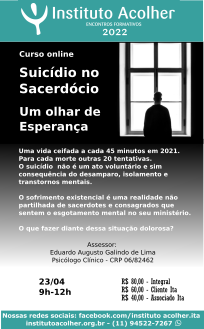
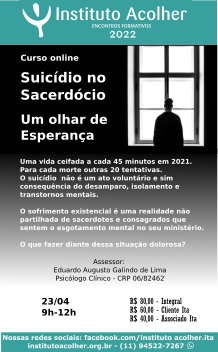
Atualização automática

diff --git a/docs/atividades_curso.html b/docs/atividades_curso.html
@@ -50,112 +50,233 @@
     <header></header>
     <main class="container">
       <h1>Cursos</h1>
-      <h2>Abril</h2>
-      <h3>Suicídio no Sacerdócio: Um olhar de Esperança</h3><img src="img/curso-2022-04-23.jpg">
-      <p>Suicídio no Sacerdócio: Um olhar de Esperança&lt;br&gt;Assessor: Eduardo Augusto Galindo de Lima &lt;br&gt;(psicólogo clínico) &lt;br&gt;Nesse curso iremos trabalhar o fenômeno do suicídio que no Brasil que a cada 45 minutos ceifou a vida de uma pessoa no ano passado. E a cada morte ocorreram outras 20 tentativas. O suicídio não é um ato voluntário e livre. É uma consequência do desamparo, do isolamento e dos transtornos mentais. O sofrimento existencial é uma realidade não partilhada de sacerdotes e consagrados que sentem o esgotamento mental no seu ministério. Diante dessa situação dolorosa devemos auxiliar na promoção das ações para valorização da vida e do bem estar na área humano-afetiva.<br><i class="grey-text">16/04 (Sábado) das 09h00 às 12h00</i>
-        <p class="modulo-assessor"><i class="grey-text fa fa-graduation-cap"></i><a href="eduardo-augusto-galindo-de-lima.html" title="Membro do ITA">Eduardo Augusto Galindo de Lima</a><br><small class="grey-text membro-crp"> CRP: 06/82462</small>
-        </p>
-      </p><a class="dropdown-trigger btn" href="#" data-target="dropdown2022-04-16">Incluir na minha agenda</a>
-      <ul class="dropdown-content" id="dropdown2022-04-16">
-        <li><a href="https://www.google.com/calendar/render?action=TEMPLATE&amp;text=Suicídio no Sacerdócio: Um olhar de Esperança&amp;details=Suicídio no Sacerdócio: Um olhar de Esperança&lt;br&gt;Assessor: Eduardo Augusto Galindo de Lima &lt;br&gt;(psicólogo clínico) &lt;br&gt;Nesse curso iremos trabalhar o fenômeno do suicídio que no Brasil que a cada 45 minutos ceifou a vida de uma pessoa no ano passado. E a cada morte ocorreram outras 20 tentativas. O suicídio não é um ato voluntário e livre. É uma consequência do desamparo, do isolamento e dos transtornos mentais. O sofrimento existencial é uma realidade não partilhada de sacerdotes e consagrados que sentem o esgotamento mental no seu ministério. Diante dessa situação dolorosa devemos auxiliar na promoção das ações para valorização da vida e do bem estar na área humano-afetiva.&amp;location=Sede do ITA&amp;dates=20220416T090000/20220416T120000" target="_blank">Google</a></li>
-      </ul>
-      <h2>Março</h2>
-      <h3>Relacionamentos na Vida Consagrada e Sacerdotal</h3><img src="img/curso-2022-03-19a.jpg">
-      <p>Relacionamentos na Vida Consagrada e Sacerdotal&lt;br&gt;Assessor: pe. Adalberto Wojciech Mittelstaedt, svd &lt;br&gt;(psicólogo e psicopedagogo, mestre em Teologia, doutor em Ciências da Religião) &lt;br&gt;Maioria dos psicólogos afirma que o bem estar de uma pessoa depende intrinsecamente do sentimento de amor que ela experienciou na sua vida desde a infância. Relacionamentos nos quais nos sentimos amados são portanto necessários para a nossa felicidade e, ainda mais, para podermos expressar nosso amor diante dos outros. &lt;br&gt;Para uma pessoa consagrada ou um sacerdote essa experiência é indispensável para sua realização, ou seja para felicidade na sua missão. E contrário...&lt;br&gt;O sacerdote, que alguns dias atrás chocou Brasil por se suicidar dentro da igreja, apontou na sua carta de despedida que se sentiu excluído, desprezado e desprotegido por outros sacerdotes. Não sabemos muito sobre a sua enfermidade, mas as queixas apontam reclamações os relacionamentos com os que deveriam ser mais próximos. <br><i class="grey-text">19/03 (Sábado) das 09h00 às 12h00</i>
-        <p class="modulo-assessor"><i class="grey-text fa fa-graduation-cap"></i><a href="wojciech-mittelstaedt-adalberto.html" title="Membro do ITA">Wojciech Mittelstaedt (Adalberto)</a><br><small class="grey-text membro-crp"> CRP: 06/99753</small>
-        </p>
-      </p><a class="dropdown-trigger btn" href="#" data-target="dropdown2022-03-19">Incluir na minha agenda</a>
-      <ul class="dropdown-content" id="dropdown2022-03-19">
-        <li><a href="https://www.google.com/calendar/render?action=TEMPLATE&amp;text=Relacionamentos na Vida Consagrada e Sacerdotal&amp;details=Relacionamentos na Vida Consagrada e Sacerdotal&lt;br&gt;Assessor: pe. Adalberto Wojciech Mittelstaedt, svd &lt;br&gt;(psicólogo e psicopedagogo, mestre em Teologia, doutor em Ciências da Religião) &lt;br&gt;Maioria dos psicólogos afirma que o bem estar de uma pessoa depende intrinsecamente do sentimento de amor que ela experienciou na sua vida desde a infância. Relacionamentos nos quais nos sentimos amados são portanto necessários para a nossa felicidade e, ainda mais, para podermos expressar nosso amor diante dos outros. &lt;br&gt;Para uma pessoa consagrada ou um sacerdote essa experiência é indispensável para sua realização, ou seja para felicidade na sua missão. E contrário...&lt;br&gt;O sacerdote, que alguns dias atrás chocou Brasil por se suicidar dentro da igreja, apontou na sua carta de despedida que se sentiu excluído, desprezado e desprotegido por outros sacerdotes. Não sabemos muito sobre a sua enfermidade, mas as queixas apontam reclamações os relacionamentos com os que deveriam ser mais próximos. &amp;location=Sede do ITA&amp;dates=20220319T090000/20220319T120000" target="_blank">Google</a></li>
-      </ul>
-      <h2>Maio</h2>
-      <h3>Ansiedade</h3><img>
-      <p>Insira a descrição do curso aqui<br><i class="grey-text">14/05 (Sábado) das 09h00 às 12h00</i>
-        <p class="modulo-assessor"><i class="grey-text fa fa-graduation-cap"></i><a href="enio-brito-pinto.html" title="Membro do ITA">Ênio Brito Pinto</a><br><small class="grey-text membro-crp"> CRP: 06/14675-7</small>
-        </p>
-      </p><a class="dropdown-trigger btn" href="#" data-target="dropdown2022-05-14">Incluir na minha agenda</a>
-      <ul class="dropdown-content" id="dropdown2022-05-14">
-        <li><a href="https://www.google.com/calendar/render?action=TEMPLATE&amp;text=Ansiedade&amp;details=Insira a descrição do curso aqui&amp;location=Sede do ITA&amp;dates=20220514T090000/20220514T120000" target="_blank">Google</a></li>
-      </ul>
-      <h2>Junho</h2>
-      <h3>Afetividade/sexualidade</h3><img>
-      <p>Insira a descrição do curso aqui<br><i class="grey-text">10/06 (Sexta-feira) das 09h00 às 12h00</i>
-        <p class="modulo-assessor"><i class="grey-text fa fa-graduation-cap"></i><a href="wellington-heleno-da-silva.html" title="Membro do ITA">Wellington Heleno da Silva</a><br><small class="grey-text membro-crp"> CRP: 06/10292</small>
-        </p>
-      </p><a class="dropdown-trigger btn" href="#" data-target="dropdown2022-06-10">Incluir na minha agenda</a>
-      <ul class="dropdown-content" id="dropdown2022-06-10">
-        <li><a href="https://www.google.com/calendar/render?action=TEMPLATE&amp;text=Afetividade/sexualidade&amp;details=Insira a descrição do curso aqui&amp;location=Sede do ITA&amp;dates=20220610T090000/20220610T120000" target="_blank">Google</a></li>
-      </ul>
-      <h2>Julho</h2>
-      <h3>Tipos Psicológicos</h3><img>
-      <p>Insira a descrição do curso aqui<br><i class="grey-text">16/07 (Sábado) das 09h00 às 12h00</i>
-        <p class="modulo-assessor"><i class="grey-text fa fa-graduation-cap"></i><a href="flavia-moreira-ribeiro.html" title="Membro do ITA">Flávia Moreira da Silva</a><br><small class="grey-text membro-crp"> CRP: 06/108.831</small>
-        </p>
-      </p><a class="dropdown-trigger btn" href="#" data-target="dropdown2022-07-16">Incluir na minha agenda</a>
-      <ul class="dropdown-content" id="dropdown2022-07-16">
-        <li><a href="https://www.google.com/calendar/render?action=TEMPLATE&amp;text=Tipos Psicológicos&amp;details=Insira a descrição do curso aqui&amp;location=Sede do ITA&amp;dates=20220716T090000/20220716T120000" target="_blank">Google</a></li>
-      </ul>
-      <h2>Agosto</h2>
-      <h3>Sentido da Vida</h3><img>
-      <p>Insira a descrição do curso aqui<br><i class="grey-text">20/08 (Sábado) das 09h00 às 12h00</i>
-        <p class="modulo-assessor"><i class="grey-text fa fa-graduation-cap"></i><a href="maria-de-fatima-rolim-rosa.html" title="Membro do ITA">Maria de Fátima Rolim Rosa</a><br><small class="grey-text membro-crp"> CRP: 06/34959-7</small>
-        </p>
-      </p><a class="dropdown-trigger btn" href="#" data-target="dropdown2022-08-20">Incluir na minha agenda</a>
-      <ul class="dropdown-content" id="dropdown2022-08-20">
-        <li><a href="https://www.google.com/calendar/render?action=TEMPLATE&amp;text=Sentido da Vida&amp;details=Insira a descrição do curso aqui&amp;location=Sede do ITA&amp;dates=20220820T090000/20220820T120000" target="_blank">Google</a></li>
-      </ul>
-      <h2>Setembro</h2>
-      <h3>VR e Feminino</h3><img>
-      <p>Insira a descrição do curso aqui<br><i class="grey-text">17/09 (Sábado) das 09h00 às 12h00</i>
-        <p class="modulo-assessor"><i class="grey-text fa fa-graduation-cap"></i><a href="maria-silva-mourao.html" title="Membro do ITA">Maria Silva Mourão</a><br><small class="grey-text membro-crp"> CRP: 06/16774</small>
-        </p>
-      </p><a class="dropdown-trigger btn" href="#" data-target="dropdown2022-09-17">Incluir na minha agenda</a>
-      <ul class="dropdown-content" id="dropdown2022-09-17">
-        <li><a href="https://www.google.com/calendar/render?action=TEMPLATE&amp;text=VR e Feminino&amp;details=Insira a descrição do curso aqui&amp;location=Sede do ITA&amp;dates=20220917T090000/20220917T120000" target="_blank">Google</a></li>
-      </ul>
-      <h2>Outubro</h2>
-      <h3>O corpo em que habito</h3><img>
-      <p>Insira a descrição do curso aqui<br><i class="grey-text">15/10 (Sábado) das 09h00 às 12h00</i>
-        <p class="modulo-assessor"><i class="grey-text fa fa-graduation-cap"></i><a href="lourdes-degrandis.html" title="Membro do ITA">Lourdes Degrandis</a><br><small class="grey-text membro-crp"> CRP: 06/35768-6</small>
-        </p>
-      </p><a class="dropdown-trigger btn" href="#" data-target="dropdown2022-10-15">Incluir na minha agenda</a>
-      <ul class="dropdown-content" id="dropdown2022-10-15">
-        <li><a href="https://www.google.com/calendar/render?action=TEMPLATE&amp;text=O corpo em que habito&amp;details=Insira a descrição do curso aqui&amp;location=Sede do ITA&amp;dates=20221015T090000/20221015T120000" target="_blank">Google</a></li>
-      </ul>
-      <h2>Novembro</h2>
-      <h3>Narcisismo</h3><img>
-      <p>Insira a descrição do curso aqui<br><i class="grey-text">19/11 (Sábado) das 09h00 às 12h00</i>
-        <p class="modulo-assessor"><i class="grey-text fa fa-graduation-cap"></i><a href="wojciech-mittelstaedt-adalberto.html" title="Membro do ITA">Wojciech Mittelstaedt (Adalberto)</a><br><small class="grey-text membro-crp"> CRP: 06/99753</small>
-        </p>
-      </p><a class="dropdown-trigger btn" href="#" data-target="dropdown2022-11-19">Incluir na minha agenda</a>
-      <ul class="dropdown-content" id="dropdown2022-11-19">
-        <li><a href="https://www.google.com/calendar/render?action=TEMPLATE&amp;text=Narcisismo&amp;details=Insira a descrição do curso aqui&amp;location=Sede do ITA&amp;dates=20221119T090000/20221119T120000" target="_blank">Google</a></li>
-      </ul>
-      <h3>O despertar da meia-idade</h3><img>
-      <p>Insira a descrição do curso aqui<br><i class="grey-text">26/11 (Sábado) das 09h00 às 12h00</i>
-        <p class="modulo-assessor"><i class="grey-text fa fa-graduation-cap"></i><a href="flavia-moreira-ribeiro.html" title="Membro do ITA">Flávia Moreira da Silva</a><br><small class="grey-text membro-crp"> CRP: 06/108.831</small>
-        </p>
-      </p><a class="dropdown-trigger btn" href="#" data-target="dropdown2022-11-26">Incluir na minha agenda</a>
-      <ul class="dropdown-content" id="dropdown2022-11-26">
-        <li><a href="https://www.google.com/calendar/render?action=TEMPLATE&amp;text=O despertar da meia-idade&amp;details=Insira a descrição do curso aqui&amp;location=Sede do ITA&amp;dates=20221126T090000/20221126T120000" target="_blank">Google</a></li>
-      </ul>
-      <h2>Dezembro</h2>
-      <h3>O despertar da meia-idade</h3><img>
-      <p>Insira a descrição do curso aqui<br><i class="grey-text">03/12 (Sábado) das 09h00 às 12h00</i>
-        <p class="modulo-assessor"><i class="grey-text fa fa-graduation-cap"></i><a href="flavia-moreira-ribeiro.html" title="Membro do ITA">Flávia Moreira da Silva</a><br><small class="grey-text membro-crp"> CRP: 06/108.831</small>
-        </p>
-      </p><a class="dropdown-trigger btn" href="#" data-target="dropdown2022-12-03">Incluir na minha agenda</a>
-      <ul class="dropdown-content" id="dropdown2022-12-03">
-        <li><a href="https://www.google.com/calendar/render?action=TEMPLATE&amp;text=O despertar da meia-idade&amp;details=Insira a descrição do curso aqui&amp;location=Sede do ITA&amp;dates=20221203T090000/20221203T120000" target="_blank">Google</a></li>
-      </ul>
-      <h3>Burnout</h3><img>
-      <p>Insira a descrição do curso aqui<br><i class="grey-text">10/12 (Sábado) das 09h00 às 12h00</i>
-        <p class="modulo-assessor"><i class="grey-text fa fa-graduation-cap"></i><a href="wellington-heleno-da-silva.html" title="Membro do ITA">Wellington Heleno da Silva</a><br><small class="grey-text membro-crp"> CRP: 06/10292</small>
-        </p>
-      </p><a class="dropdown-trigger btn" href="#" data-target="dropdown2022-12-10">Incluir na minha agenda</a>
-      <ul class="dropdown-content" id="dropdown2022-12-10">
-        <li><a href="https://www.google.com/calendar/render?action=TEMPLATE&amp;text=Burnout&amp;details=Insira a descrição do curso aqui&amp;location=Sede do ITA&amp;dates=20221210T090000/20221210T120000" target="_blank">Google</a></li>
-      </ul>
+      <h2 class="mt6">Abril</h2>
+      <p class="tc"><img src="img/curso-2022-04-23.png"></p>
+      <h3 class="mt4">Suicídio no Sacerdócio: Um olhar de Esperança</h3>
+      <p class="modulo-assessor"><i class="grey-text fa fa-graduation-cap"></i><a href="eduardo-augusto-galindo-de-lima.html" title="Membro do ITA">Eduardo Augusto Galindo de Lima</a><br><small class="grey-text membro-crp"> CRP: 06/82462</small>
+      </p>
+      <p class="fw3 teal-text">Descrição do curso</p>
+      <p class="flow-text">Suicídio no Sacerdócio: Um olhar de Esperança. Assessor: Eduardo Augusto Galindo de Lima (psicólogo clínico) Nesse curso iremos trabalhar o fenômeno do suicídio que no Brasil que a cada 45 minutos ceifou a vida de uma pessoa no ano passado. E a cada morte ocorreram outras 20 tentativas. O suicídio não é um ato voluntário e livre. É uma consequência do desamparo, do isolamento e dos transtornos mentais. O sofrimento existencial é uma realidade não partilhada de sacerdotes e consagrados que sentem o esgotamento mental no seu ministério. Diante dessa situação dolorosa devemos auxiliar na promoção das ações para valorização da vida e do bem estar na área humano-afetiva.</p>
+      <p class="fw3 teal-text">Data e horário</p>
+      <p><i class="grey-text">23/04 (Sábado) das 09h00 às 12h00</i></p>
+      <p class="fw3 teal-text">Local</p>
+      <p><strong>Sede do Instituto Acolher - ITA</strong></p>
+      <p class="fw3 teal-text">Inscrição</p>
+      <div class="row">
+        <div class="col s12 m6"><a class="btn teal darken-2 w100" href="https://forms.gle/sDkib3KSRq7NiFLk6" target="_blank">Realizar inscrição</a></div>
+        <div class="col s12 m6"><a class="dropdown-trigger btn w100" href="#" data-target="dropdown2022-04-23">Incluir na minha agenda</a>
+          <ul class="dropdown-content" id="dropdown2022-04-23">
+            <li><a href="https://www.google.com/calendar/render?action=TEMPLATE&amp;text=Suicídio no Sacerdócio: Um olhar de Esperança&amp;details=Suicídio no Sacerdócio: Um olhar de Esperança. Assessor: Eduardo Augusto Galindo de Lima (psicólogo clínico) Nesse curso iremos trabalhar o fenômeno do suicídio que no Brasil que a cada 45 minutos ceifou a vida de uma pessoa no ano passado. E a cada morte ocorreram outras 20 tentativas. O suicídio não é um ato voluntário e livre. É uma consequência do desamparo, do isolamento e dos transtornos mentais. O sofrimento existencial é uma realidade não partilhada de sacerdotes e consagrados que sentem o esgotamento mental no seu ministério. Diante dessa situação dolorosa devemos auxiliar na promoção das ações para valorização da vida e do bem estar na área humano-afetiva.&amp;location=Sede do ITA&amp;dates=20220423T090000/20220423T120000" target="_blank">Google</a></li>
+          </ul>
+        </div>
+      </div>
+      <h2 class="mt6">Março</h2>
+      <p class="tc"><img src="img/curso-2022-03-19a.jpg"></p>
+      <h3 class="mt4">Relacionamentos na Vida Consagrada e Sacerdotal</h3>
+      <p class="modulo-assessor"><i class="grey-text fa fa-graduation-cap"></i><a href="wojciech-mittelstaedt-adalberto.html" title="Membro do ITA">Wojciech Mittelstaedt (Adalberto)</a><br><small class="grey-text membro-crp"> CRP: 06/99753</small>
+      </p>
+      <p class="fw3 teal-text">Descrição do curso</p>
+      <p class="flow-text">Relacionamentos na Vida Consagrada e Sacerdotal<br>Assessor: pe. Adalberto Wojciech Mittelstaedt, svd <br>(psicólogo e psicopedagogo, mestre em Teologia, doutor em Ciências da Religião) <br>Maioria dos psicólogos afirma que o bem estar de uma pessoa depende intrinsecamente do sentimento de amor que ela experienciou na sua vida desde a infância. Relacionamentos nos quais nos sentimos amados são portanto necessários para a nossa felicidade e, ainda mais, para podermos expressar nosso amor diante dos outros. <br>Para uma pessoa consagrada ou um sacerdote essa experiência é indispensável para sua realização, ou seja para felicidade na sua missão. E contrário...<br>O sacerdote, que alguns dias atrás chocou Brasil por se suicidar dentro da igreja, apontou na sua carta de despedida que se sentiu excluído, desprezado e desprotegido por outros sacerdotes. Não sabemos muito sobre a sua enfermidade, mas as queixas apontam reclamações os relacionamentos com os que deveriam ser mais próximos. </p>
+      <p class="fw3 teal-text">Data e horário</p>
+      <p><i class="grey-text">19/03 (Sábado) das 09h00 às 12h00</i></p>
+      <p class="fw3 teal-text">Local</p>
+      <p><strong>Sede do Instituto Acolher - ITA</strong></p>
+      <p class="fw3 teal-text">Inscrição</p>
+      <div class="row">
+        <div class="col s12 m6"><a class="dropdown-trigger btn w100" href="#" data-target="dropdown2022-03-19">Incluir na minha agenda</a>
+          <ul class="dropdown-content" id="dropdown2022-03-19">
+            <li><a href="https://www.google.com/calendar/render?action=TEMPLATE&amp;text=Relacionamentos na Vida Consagrada e Sacerdotal&amp;details=Relacionamentos na Vida Consagrada e Sacerdotal&lt;br&gt;Assessor: pe. Adalberto Wojciech Mittelstaedt, svd &lt;br&gt;(psicólogo e psicopedagogo, mestre em Teologia, doutor em Ciências da Religião) &lt;br&gt;Maioria dos psicólogos afirma que o bem estar de uma pessoa depende intrinsecamente do sentimento de amor que ela experienciou na sua vida desde a infância. Relacionamentos nos quais nos sentimos amados são portanto necessários para a nossa felicidade e, ainda mais, para podermos expressar nosso amor diante dos outros. &lt;br&gt;Para uma pessoa consagrada ou um sacerdote essa experiência é indispensável para sua realização, ou seja para felicidade na sua missão. E contrário...&lt;br&gt;O sacerdote, que alguns dias atrás chocou Brasil por se suicidar dentro da igreja, apontou na sua carta de despedida que se sentiu excluído, desprezado e desprotegido por outros sacerdotes. Não sabemos muito sobre a sua enfermidade, mas as queixas apontam reclamações os relacionamentos com os que deveriam ser mais próximos. &amp;location=Sede do ITA&amp;dates=20220319T090000/20220319T120000" target="_blank">Google</a></li>
+          </ul>
+        </div>
+      </div>
+      <h2 class="mt6">Maio</h2>
+      <p class="tc"><img></p>
+      <h3 class="mt4">Ansiedade</h3>
+      <p class="modulo-assessor"><i class="grey-text fa fa-graduation-cap"></i><a href="enio-brito-pinto.html" title="Membro do ITA">Ênio Brito Pinto</a><br><small class="grey-text membro-crp"> CRP: 06/14675-7</small>
+      </p>
+      <p class="fw3 teal-text">Descrição do curso</p>
+      <p class="flow-text">Insira a descrição do curso aqui</p>
+      <p class="fw3 teal-text">Data e horário</p>
+      <p><i class="grey-text">14/05 (Sábado) das 09h00 às 12h00</i></p>
+      <p class="fw3 teal-text">Local</p>
+      <p><strong class="red-text">Curso Online</strong></p>
+      <p class="fw3 teal-text">Inscrição</p>
+      <div class="row">
+        <div class="col s12 m6"><a class="dropdown-trigger btn w100" href="#" data-target="dropdown2022-05-14">Incluir na minha agenda</a>
+          <ul class="dropdown-content" id="dropdown2022-05-14">
+            <li><a href="https://www.google.com/calendar/render?action=TEMPLATE&amp;text=Ansiedade&amp;details=Insira a descrição do curso aqui&amp;location=Sede do ITA&amp;dates=20220514T090000/20220514T120000" target="_blank">Google</a></li>
+          </ul>
+        </div>
+      </div>
+      <h2 class="mt6">Junho</h2>
+      <p class="tc"><img></p>
+      <h3 class="mt4">Afetividade/sexualidade</h3>
+      <p class="modulo-assessor"><i class="grey-text fa fa-graduation-cap"></i><a href="wellington-heleno-da-silva.html" title="Membro do ITA">Wellington Heleno da Silva</a><br><small class="grey-text membro-crp"> CRP: 06/10292</small>
+      </p>
+      <p class="fw3 teal-text">Descrição do curso</p>
+      <p class="flow-text">Insira a descrição do curso aqui</p>
+      <p class="fw3 teal-text">Data e horário</p>
+      <p><i class="grey-text">10/06 (Sexta-feira) das 09h00 às 12h00</i></p>
+      <p class="fw3 teal-text">Local</p>
+      <p><strong>Sede do Instituto Acolher - ITA</strong></p>
+      <p class="fw3 teal-text">Inscrição</p>
+      <div class="row">
+        <div class="col s12 m6"><a class="dropdown-trigger btn w100" href="#" data-target="dropdown2022-06-10">Incluir na minha agenda</a>
+          <ul class="dropdown-content" id="dropdown2022-06-10">
+            <li><a href="https://www.google.com/calendar/render?action=TEMPLATE&amp;text=Afetividade/sexualidade&amp;details=Insira a descrição do curso aqui&amp;location=Sede do ITA&amp;dates=20220610T090000/20220610T120000" target="_blank">Google</a></li>
+          </ul>
+        </div>
+      </div>
+      <h2 class="mt6">Julho</h2>
+      <p class="tc"><img></p>
+      <h3 class="mt4">Tipos Psicológicos</h3>
+      <p class="modulo-assessor"><i class="grey-text fa fa-graduation-cap"></i><a href="flavia-moreira-ribeiro.html" title="Membro do ITA">Flávia Moreira da Silva</a><br><small class="grey-text membro-crp"> CRP: 06/108.831</small>
+      </p>
+      <p class="fw3 teal-text">Descrição do curso</p>
+      <p class="flow-text">Insira a descrição do curso aqui</p>
+      <p class="fw3 teal-text">Data e horário</p>
+      <p><i class="grey-text">16/07 (Sábado) das 09h00 às 12h00</i></p>
+      <p class="fw3 teal-text">Local</p>
+      <p><strong>Sede do Instituto Acolher - ITA</strong></p>
+      <p class="fw3 teal-text">Inscrição</p>
+      <div class="row">
+        <div class="col s12 m6"><a class="dropdown-trigger btn w100" href="#" data-target="dropdown2022-07-16">Incluir na minha agenda</a>
+          <ul class="dropdown-content" id="dropdown2022-07-16">
+            <li><a href="https://www.google.com/calendar/render?action=TEMPLATE&amp;text=Tipos Psicológicos&amp;details=Insira a descrição do curso aqui&amp;location=Sede do ITA&amp;dates=20220716T090000/20220716T120000" target="_blank">Google</a></li>
+          </ul>
+        </div>
+      </div>
+      <h2 class="mt6">Agosto</h2>
+      <p class="tc"><img></p>
+      <h3 class="mt4">Sentido da Vida</h3>
+      <p class="modulo-assessor"><i class="grey-text fa fa-graduation-cap"></i><a href="maria-de-fatima-rolim-rosa.html" title="Membro do ITA">Maria de Fátima Rolim Rosa</a><br><small class="grey-text membro-crp"> CRP: 06/34959-7</small>
+      </p>
+      <p class="fw3 teal-text">Descrição do curso</p>
+      <p class="flow-text">Insira a descrição do curso aqui</p>
+      <p class="fw3 teal-text">Data e horário</p>
+      <p><i class="grey-text">20/08 (Sábado) das 09h00 às 12h00</i></p>
+      <p class="fw3 teal-text">Local</p>
+      <p><strong>Sede do Instituto Acolher - ITA</strong></p>
+      <p class="fw3 teal-text">Inscrição</p>
+      <div class="row">
+        <div class="col s12 m6"><a class="dropdown-trigger btn w100" href="#" data-target="dropdown2022-08-20">Incluir na minha agenda</a>
+          <ul class="dropdown-content" id="dropdown2022-08-20">
+            <li><a href="https://www.google.com/calendar/render?action=TEMPLATE&amp;text=Sentido da Vida&amp;details=Insira a descrição do curso aqui&amp;location=Sede do ITA&amp;dates=20220820T090000/20220820T120000" target="_blank">Google</a></li>
+          </ul>
+        </div>
+      </div>
+      <h2 class="mt6">Setembro</h2>
+      <p class="tc"><img></p>
+      <h3 class="mt4">VR e Feminino</h3>
+      <p class="modulo-assessor"><i class="grey-text fa fa-graduation-cap"></i><a href="maria-silva-mourao.html" title="Membro do ITA">Maria Silva Mourão</a><br><small class="grey-text membro-crp"> CRP: 06/16774</small>
+      </p>
+      <p class="fw3 teal-text">Descrição do curso</p>
+      <p class="flow-text">Insira a descrição do curso aqui</p>
+      <p class="fw3 teal-text">Data e horário</p>
+      <p><i class="grey-text">17/09 (Sábado) das 09h00 às 12h00</i></p>
+      <p class="fw3 teal-text">Local</p>
+      <p><strong>Sede do Instituto Acolher - ITA</strong></p>
+      <p class="fw3 teal-text">Inscrição</p>
+      <div class="row">
+        <div class="col s12 m6"><a class="dropdown-trigger btn w100" href="#" data-target="dropdown2022-09-17">Incluir na minha agenda</a>
+          <ul class="dropdown-content" id="dropdown2022-09-17">
+            <li><a href="https://www.google.com/calendar/render?action=TEMPLATE&amp;text=VR e Feminino&amp;details=Insira a descrição do curso aqui&amp;location=Sede do ITA&amp;dates=20220917T090000/20220917T120000" target="_blank">Google</a></li>
+          </ul>
+        </div>
+      </div>
+      <h2 class="mt6">Outubro</h2>
+      <p class="tc"><img></p>
+      <h3 class="mt4">O corpo em que habito</h3>
+      <p class="modulo-assessor"><i class="grey-text fa fa-graduation-cap"></i><a href="lourdes-degrandis.html" title="Membro do ITA">Lourdes Degrandis</a><br><small class="grey-text membro-crp"> CRP: 06/35768-6</small>
+      </p>
+      <p class="fw3 teal-text">Descrição do curso</p>
+      <p class="flow-text">Insira a descrição do curso aqui</p>
+      <p class="fw3 teal-text">Data e horário</p>
+      <p><i class="grey-text">15/10 (Sábado) das 09h00 às 12h00</i></p>
+      <p class="fw3 teal-text">Local</p>
+      <p><strong>Sede do Instituto Acolher - ITA</strong></p>
+      <p class="fw3 teal-text">Inscrição</p>
+      <div class="row">
+        <div class="col s12 m6"><a class="dropdown-trigger btn w100" href="#" data-target="dropdown2022-10-15">Incluir na minha agenda</a>
+          <ul class="dropdown-content" id="dropdown2022-10-15">
+            <li><a href="https://www.google.com/calendar/render?action=TEMPLATE&amp;text=O corpo em que habito&amp;details=Insira a descrição do curso aqui&amp;location=Sede do ITA&amp;dates=20221015T090000/20221015T120000" target="_blank">Google</a></li>
+          </ul>
+        </div>
+      </div>
+      <h2 class="mt6">Novembro</h2>
+      <p class="tc"><img></p>
+      <h3 class="mt4">Narcisismo</h3>
+      <p class="modulo-assessor"><i class="grey-text fa fa-graduation-cap"></i><a href="wojciech-mittelstaedt-adalberto.html" title="Membro do ITA">Wojciech Mittelstaedt (Adalberto)</a><br><small class="grey-text membro-crp"> CRP: 06/99753</small>
+      </p>
+      <p class="fw3 teal-text">Descrição do curso</p>
+      <p class="flow-text">Insira a descrição do curso aqui</p>
+      <p class="fw3 teal-text">Data e horário</p>
+      <p><i class="grey-text">19/11 (Sábado) das 09h00 às 12h00</i></p>
+      <p class="fw3 teal-text">Local</p>
+      <p><strong>Sede do Instituto Acolher - ITA</strong></p>
+      <p class="fw3 teal-text">Inscrição</p>
+      <div class="row">
+        <div class="col s12 m6"><a class="dropdown-trigger btn w100" href="#" data-target="dropdown2022-11-19">Incluir na minha agenda</a>
+          <ul class="dropdown-content" id="dropdown2022-11-19">
+            <li><a href="https://www.google.com/calendar/render?action=TEMPLATE&amp;text=Narcisismo&amp;details=Insira a descrição do curso aqui&amp;location=Sede do ITA&amp;dates=20221119T090000/20221119T120000" target="_blank">Google</a></li>
+          </ul>
+        </div>
+      </div>
+      <p class="tc"><img></p>
+      <h3 class="mt4">O despertar da meia-idade</h3>
+      <p class="modulo-assessor"><i class="grey-text fa fa-graduation-cap"></i><a href="flavia-moreira-ribeiro.html" title="Membro do ITA">Flávia Moreira da Silva</a><br><small class="grey-text membro-crp"> CRP: 06/108.831</small>
+      </p>
+      <p class="fw3 teal-text">Descrição do curso</p>
+      <p class="flow-text">Insira a descrição do curso aqui</p>
+      <p class="fw3 teal-text">Data e horário</p>
+      <p><i class="grey-text">26/11 (Sábado) das 09h00 às 12h00</i></p>
+      <p class="fw3 teal-text">Local</p>
+      <p><strong>Sede do Instituto Acolher - ITA</strong></p>
+      <p class="fw3 teal-text">Inscrição</p>
+      <div class="row">
+        <div class="col s12 m6"><a class="dropdown-trigger btn w100" href="#" data-target="dropdown2022-11-26">Incluir na minha agenda</a>
+          <ul class="dropdown-content" id="dropdown2022-11-26">
+            <li><a href="https://www.google.com/calendar/render?action=TEMPLATE&amp;text=O despertar da meia-idade&amp;details=Insira a descrição do curso aqui&amp;location=Sede do ITA&amp;dates=20221126T090000/20221126T120000" target="_blank">Google</a></li>
+          </ul>
+        </div>
+      </div>
+      <h2 class="mt6">Dezembro</h2>
+      <p class="tc"><img></p>
+      <h3 class="mt4">O despertar da meia-idade</h3>
+      <p class="modulo-assessor"><i class="grey-text fa fa-graduation-cap"></i><a href="flavia-moreira-ribeiro.html" title="Membro do ITA">Flávia Moreira da Silva</a><br><small class="grey-text membro-crp"> CRP: 06/108.831</small>
+      </p>
+      <p class="fw3 teal-text">Descrição do curso</p>
+      <p class="flow-text">Insira a descrição do curso aqui</p>
+      <p class="fw3 teal-text">Data e horário</p>
+      <p><i class="grey-text">03/12 (Sábado) das 09h00 às 12h00</i></p>
+      <p class="fw3 teal-text">Local</p>
+      <p><strong>Sede do Instituto Acolher - ITA</strong></p>
+      <p class="fw3 teal-text">Inscrição</p>
+      <div class="row">
+        <div class="col s12 m6"><a class="dropdown-trigger btn w100" href="#" data-target="dropdown2022-12-03">Incluir na minha agenda</a>
+          <ul class="dropdown-content" id="dropdown2022-12-03">
+            <li><a href="https://www.google.com/calendar/render?action=TEMPLATE&amp;text=O despertar da meia-idade&amp;details=Insira a descrição do curso aqui&amp;location=Sede do ITA&amp;dates=20221203T090000/20221203T120000" target="_blank">Google</a></li>
+          </ul>
+        </div>
+      </div>
+      <p class="tc"><img></p>
+      <h3 class="mt4">Burnout</h3>
+      <p class="modulo-assessor"><i class="grey-text fa fa-graduation-cap"></i><a href="wellington-heleno-da-silva.html" title="Membro do ITA">Wellington Heleno da Silva</a><br><small class="grey-text membro-crp"> CRP: 06/10292</small>
+      </p>
+      <p class="fw3 teal-text">Descrição do curso</p>
+      <p class="flow-text">Insira a descrição do curso aqui</p>
+      <p class="fw3 teal-text">Data e horário</p>
+      <p><i class="grey-text">10/12 (Sábado) das 09h00 às 12h00</i></p>
+      <p class="fw3 teal-text">Local</p>
+      <p><strong>Sede do Instituto Acolher - ITA</strong></p>
+      <p class="fw3 teal-text">Inscrição</p>
+      <div class="row">
+        <div class="col s12 m6"><a class="dropdown-trigger btn w100" href="#" data-target="dropdown2022-12-10">Incluir na minha agenda</a>
+          <ul class="dropdown-content" id="dropdown2022-12-10">
+            <li><a href="https://www.google.com/calendar/render?action=TEMPLATE&amp;text=Burnout&amp;details=Insira a descrição do curso aqui&amp;location=Sede do ITA&amp;dates=20221210T090000/20221210T120000" target="_blank">Google</a></li>
+          </ul>
+        </div>
+      </div>
       <script>
         document.addEventListener('DOMContentLoaded', function() {
         var options = {};
